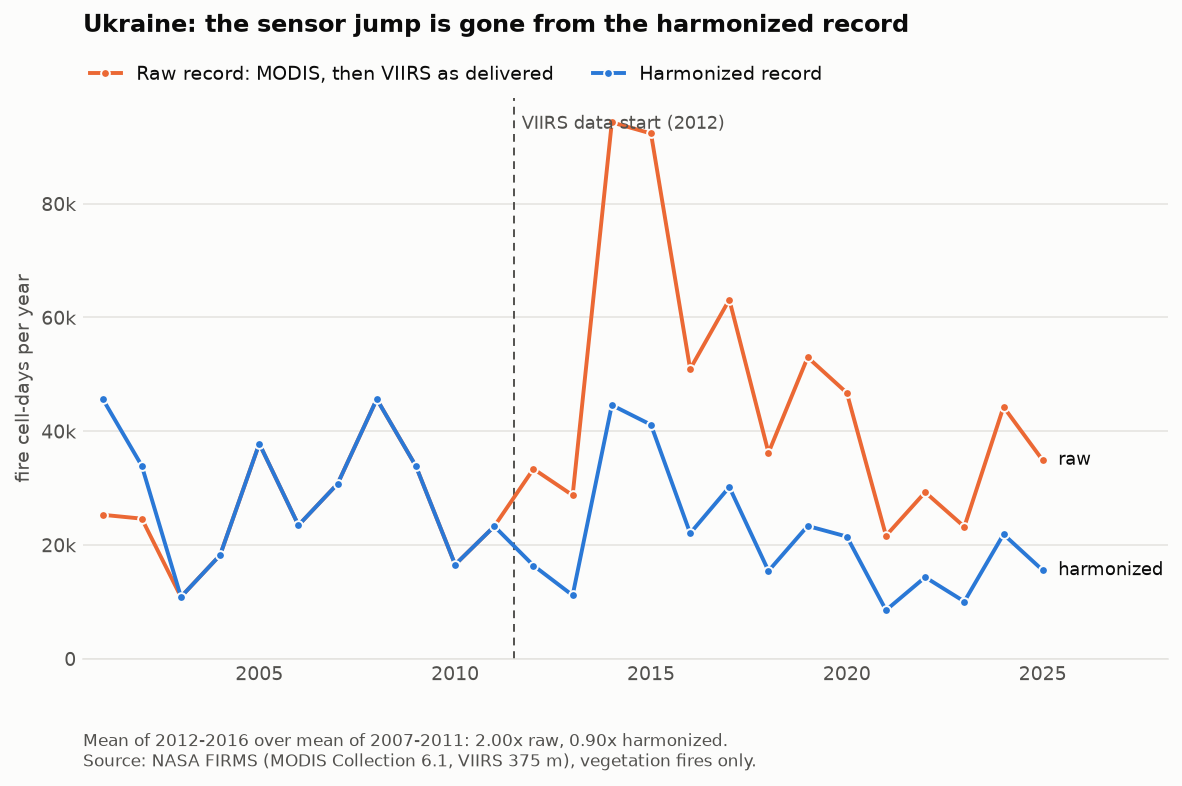
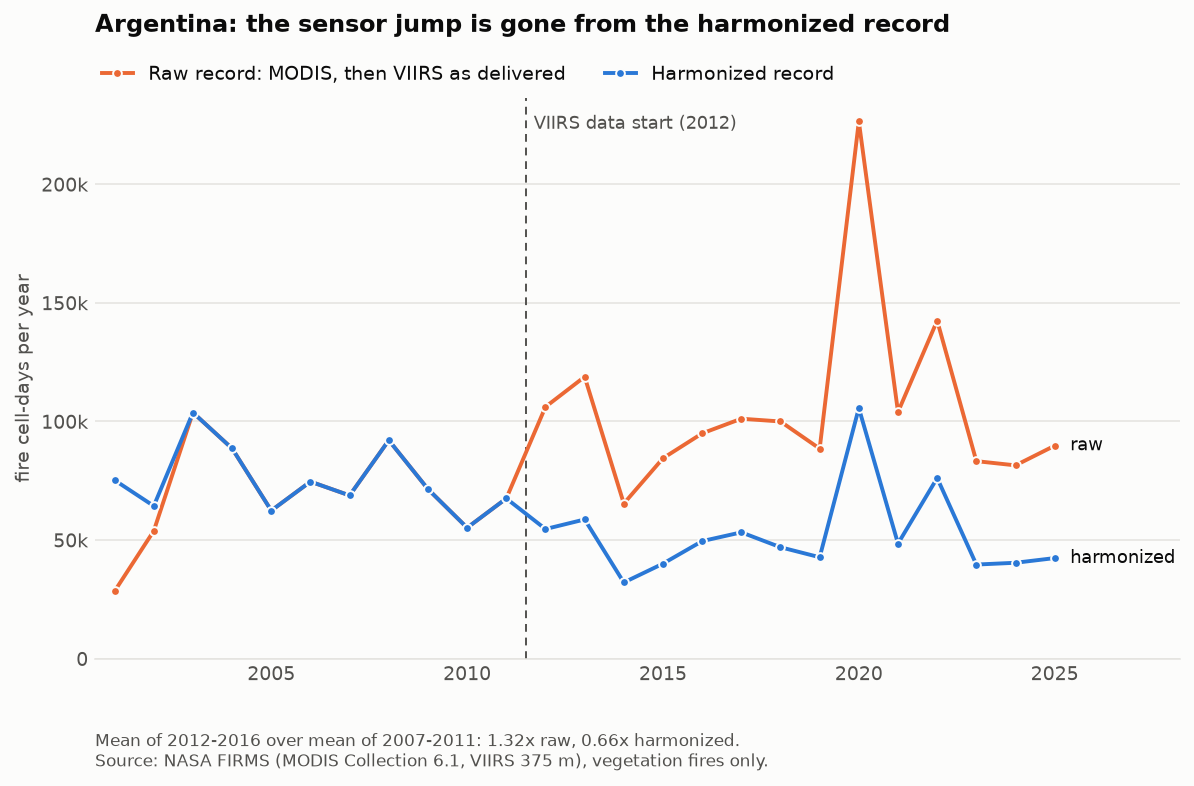
Regenerate the validation report with the full archive of both countries
Argentina now has its own calibration and validation instead of the
pooled one: held-out error 5.4% per year and 7.7% per month. Ukraine is
unchanged. Written by `make validate`.

diff --git a/docs/VALIDATION.md b/docs/VALIDATION.md
@@ -1,14 +1,44 @@
 # Validation
 
-Generated by `pipeline.validate` on 2026-11-14T11:18:20Z. Do not edit by hand: run `make validate`.
+Generated by `pipeline.validate` on 2026-11-14T11:24:57Z. Do not edit by hand: run `make validate`.
 
 Unit: MODIS-equivalent fire cell-days. Error metric: WAPE = sum|prediction - truth| / sum(truth), on years the model did not see.
 Weights are fitted on 2012-02-01 .. 2021-12-31.
 
 ## Argentina
 
-Too little MODIS/VIIRS overlap downloaded for this country: calibration borrowed, not validated here.
+| Check | Bias | Country x year | Country x month | 1-degree tile x year | 1-degree tile x month |
+|---|---|---|---|---|---|
+| Harmonized VIIRS vs MODIS, each year predicted without seeing it | +0.5% | 5.4% | 7.7% | 15.8% | 24.8% |
+| Baseline: one scaling factor for the whole country | +0.0% | 3.5% | 9.9% | 21.4% | 30.8% |
+| Baseline: VIIRS cell-days as delivered | +106.0% | 106.0% | 106.0% | 106.6% | 109.7% |
+| NOAA-20 vs MODIS (NOAA-20 was not used to fit the weights) | +4.4% | 5.5% | 6.3% | 16.6% | 24.2% |
+| Terra-only months scaled to Terra + Aqua, leave-one-year-out | +0.0% | 3.2% | 7.3% | 18.2% | 29.3% |
 
+Sensor jump check, mean yearly total 2012-2016 over 2007-2011:
+raw record 1.32x, harmonized 0.66x.
+
+![Yearly totals, raw record vs harmonized record](sensor_jump_before_after.png)
+
+Detection curve: share of VIIRS fire cell-days that MODIS also reported nearby the same day.
+
+| Fire power of the cell-day (MW) | Night only | With a daytime detection |
+|---|---|---|
+| 0 - 1 | 10% | 2% |
+| 1 - 2 | 20% | 10% |
+| 2 - 4 | 32% | 17% |
+| 4 - 8 | 46% | 30% |
+| 8 - 16 | 62% | 44% |
+| 16 - 32 | 75% | 59% |
+| 32 - 64 | 83% | 71% |
+| 64 - more | 90% | 83% |
+
+Scale k = 1.2284. NOAA-20 to S-NPP factor = 0.9999.
+Months left out of that factor as sensor gaps: 2022-07, 2024-07.
+
+MODIS against the VIIRS-equivalent of the same year (1.0 = the sensors agree; Terra alone in brackets):
+
+2012: 1.04 (0.37), 2013: 1.00 (0.38), 2014: 1.04 (0.42), 2015: 1.04 (0.38), 2016: 1.06 (0.38), 2017: 1.05 (0.40), 2018: 0.98 (0.35), 2019: 1.04 (0.37), 2020: 0.92 (0.33), 2021: 0.97 (0.35), 2022: 0.85 (0.31), 2023: 1.02 (0.40), 2024: 1.05 (0.34), 2025: 0.97 (0.29)
 
 ## Ukraine
 
